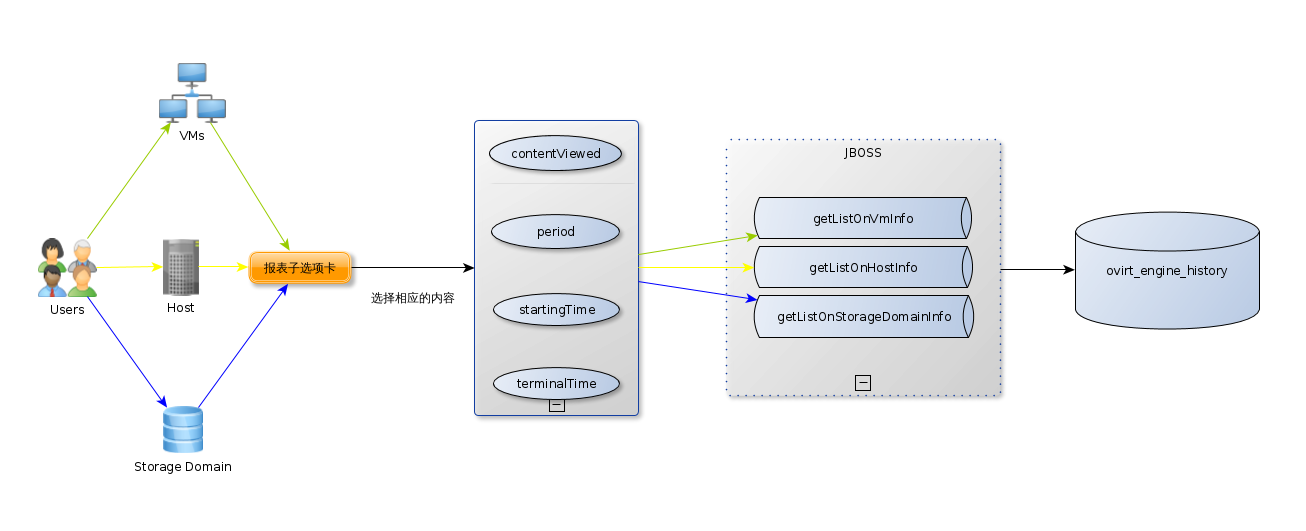
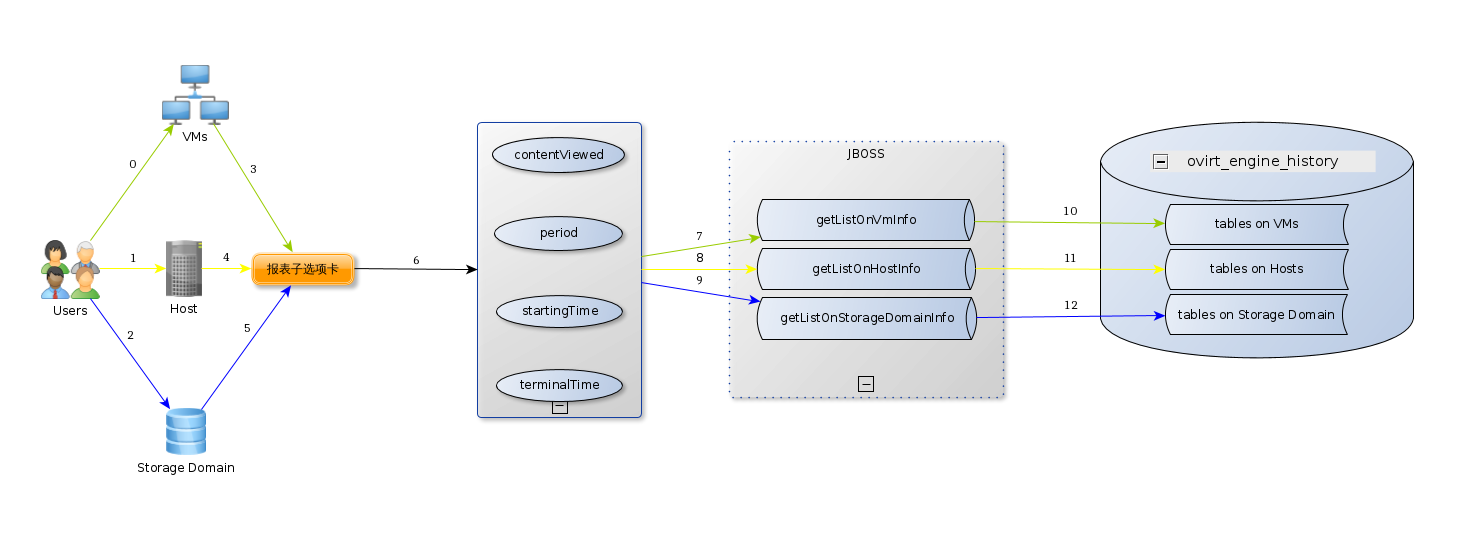
update pic and add steps of design

diff --git a/README.md b/README.md
@@ -424,3 +424,11 @@
 * 流程图
  
   ![design](images/design.png)
+  
+  ** 流程解释：
+     1. 0 ~ 2：用户可以通过浏览器选择 EayunOS 系统中的某一个虚拟机，主机或存储域。
+     2. 3 ~ 5：点击虚拟机，主机或者存储域的报表子选项卡。这时用户可以看到报表界面，而前端也获得了被访问实体的 ID（vm_id, host_id, storage_domain_id）。
+     3. 6：用户可以在报表界面中选择相应的查看对象（CPU，内存，网络接口，磁盘），查看周期（时，天，周，月，季度，年），具体时间（具体的某时，某天，某月等）。此时前端会将用户选择的数据以 GET 的方式发送到服务器端（JBOSS）。
+     4. 7 ~ 9：服务器端接收到前端发送过来的数据后，会采取分流的方式将数据发送给相应的实体接口（例如：如果用户选择的是某个存储域，就会将数据发送给 getListOnStorageDomainInfo 接口）。
+     5. 10 ~ 12：通过上面提到的接口，会调用相应的 DAO 类，将数据从数据库中提取出来。
+     6. 这时前端就可以通过接口返回的数据，利用 chartjs 做出报表展示。
